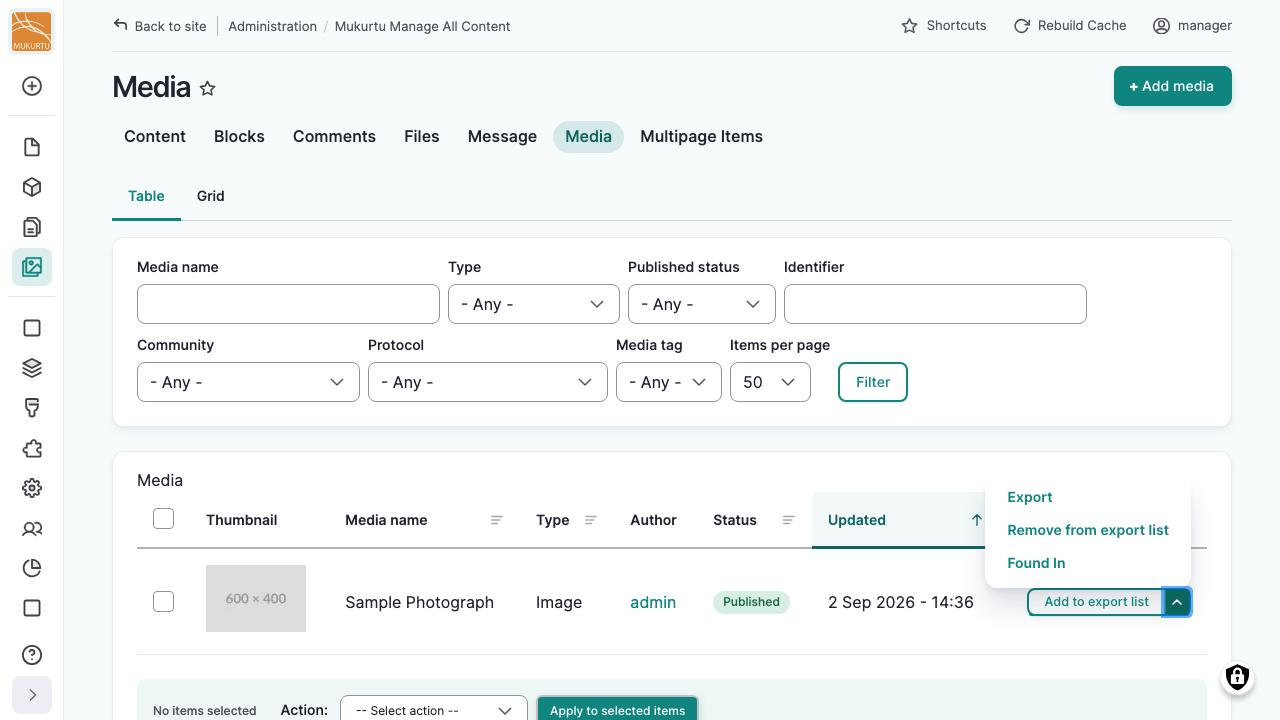
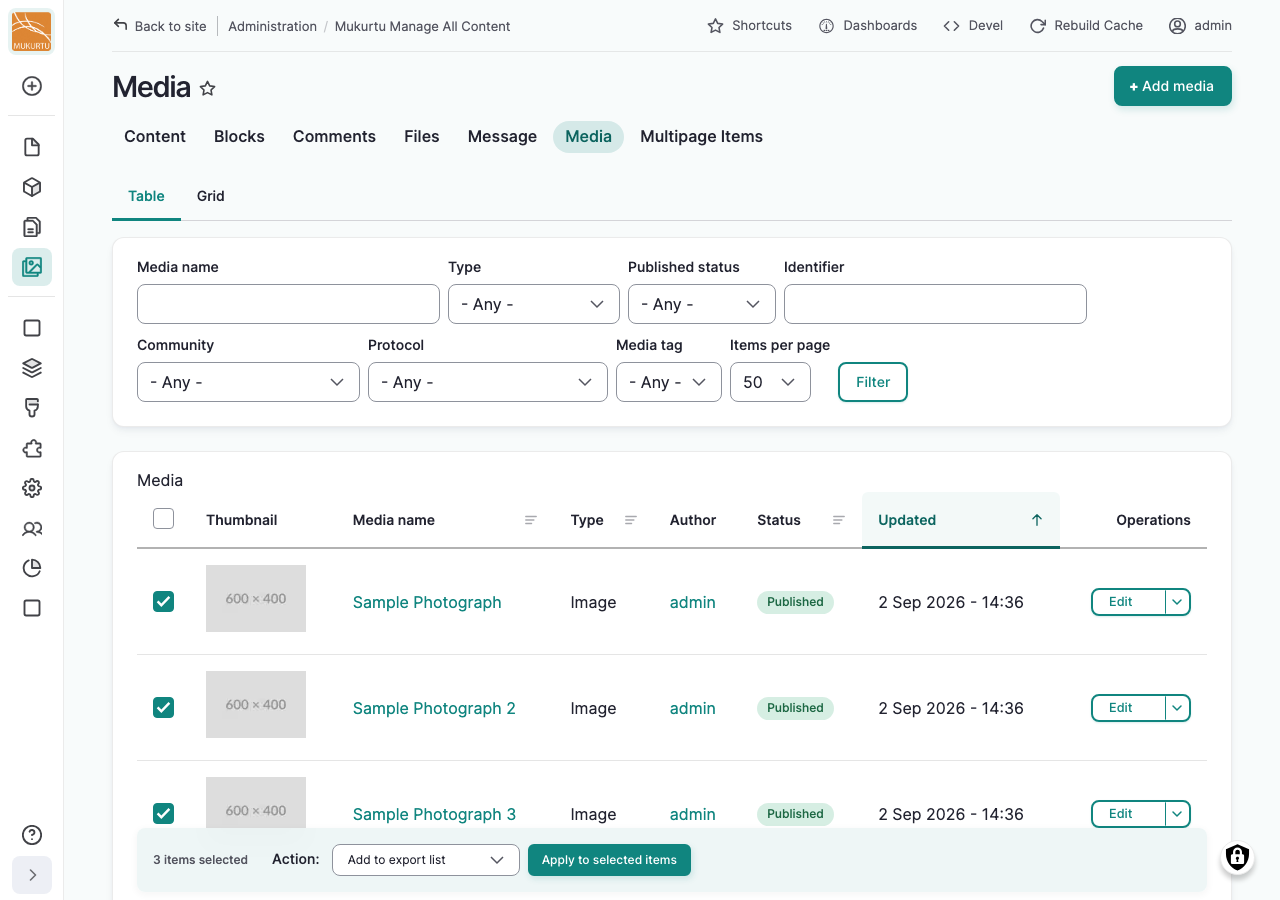
Reorder Exporting Content flows, add missing progress step, review Media/Taxonomies
Move "Run an export from a list" before "Run an ad hoc export" to match
the more common path, fold "Download your export" into both flows as a
final step, and add the previously-missing export progress screen to
each. Give Exporting Media its own "Run an ad hoc export" section
(promoted from a tip) and fix a bulk-action screenshot/caption mismatch.
Fix broken cross-references and italic/bold convention in Exporting
Taxonomies after the Exporting Content restructuring.

diff --git a/docs/roundtrip/ExportingMedia.md b/docs/roundtrip/ExportingMedia.md
@@ -8,39 +8,39 @@ tags:
 !!! roles "User roles"
     Administrator, Mukurtu manager, Roundtrip manager
 
-Media assets, images, audio, video, and other files attached to your content, can be exported on their own, in addition to being included automatically when you export the content they belong to. This article covers both. 
-
-!!! requirement
-    Users must be an Administrator, Mukurtu manager, or Roundtrip manager to access export tools.
+Media assets can be exported on their own, or included when exporting the content they belong to. 
 
 ## Add media to an export list
 
-Media items don't have their own full page with an "Add to Export List" option the way content does. Instead, add media to an export list from the media library.
+Media assets don't have their own full page with an "Add to Export List" option the way content does. Instead, add media to an export list from the media library.
 
 From your **Dashboard**, under **Media**, select **Manage Media**.
 
 ![The Manage Media page listing a media item, with an "Add to export list" button in its Operations column.](../_embeds/exporting-media-manage-media-01.png)
 
 - To add a single item, select "Add to export list" from its actions menu, or, if it's shown directly on the item, select the "Add to export list" toggle.
-- To add multiple items at once, select the items you want, then choose "Add to Export List" from the bulk actions menu.
+- To add multiple items at once, select the items you want, then choose "Add to export list" from the bulk actions menu.
 
-![The Operations menu for a media item expanded, showing Export, Remove from export list, and Found In.](../_embeds/exporting-media-manage-media-02.png)
+![Three media items selected in Manage Media, with "Add to export list" chosen in the bulk Action dropdown.](../_embeds/exporting-media-manage-media-02.png)
 
-Both work the same way as adding content: you'll choose an existing export list, or create a new one. See [Add a single item](UsingExportLists.md#add-a-single-item) for that form.
+Next, choose an existing export list, or create a new one. See [Add a single item](UsingExportLists.md#add-a-single-item) for more information.
 
 ![The Add to Export List form for a media item, with an existing export list selected.](../_embeds/exporting-media-add-to-list-01.png)
 
-!!! tip
-    Select "Export" from a media item's actions menu to export just that item right away, without adding it to a list first.
+## Run an ad hoc export
+
+An ad hoc export skips export lists entirely: you export one or more media items right away, without saving them anywhere first.
+
+- Select "Export" from a media item's actions menu.
+- To export multiple items at once, select the items you want, then choose "Export" from the bulk actions menu.
+
+Either way, you'll land on the same export page, progress screen, and results page described in [Run an ad hoc export](ExportingContent.md#run-an-ad-hoc-export).
 
 ## Media included with content
 
-When you export content whose *Media* setting (see [Configuration](ExportSettings.md#configuration)) is set to include the referenced media, that media is exported automatically along with it. It isn't folded into the content's own row: each media type exports to its own file (for example, `Media - Image.csv`), using that type's own field mapping. You don't need to separately add that media to your export list for this to happen.
+When you export content whose **Media** setting (see [Configuration](ExportSettings.md#configuration)) is set to include the referenced media, that media is exported automatically along with it. It isn't folded into the content's own row: each media type exports to its own file (for example, `Media - Image.csv`), using that type's own field mapping. You don't need to separately add that media to your export list for this to happen.
 
 ## Media asset packaging
 
-Whether the actual file is bundled with the export, or just an identifier, is controlled by *Media asset packaging* in the export setting you use (see [Configuration](ExportSettings.md#configuration)). This only matters for media types that store a local file: Image, Audio, Video, and Document. Remote Video, SoundCloud, and External Embed store a URL or embed code instead of a file, so this setting has no effect on them.
+Whether the actual file is bundled with the export, or just an identifier, is controlled by **Media asset packaging** in the export setting you use (see [Configuration](ExportSettings.md#configuration)). This only matters for media types that store a local file: Image, Audio, Video, and Document. Remote Video, SoundCloud, and External Embed store a URL or embed code instead of a file, so this setting has no effect on them.
 
-## Supported media types
-
-Mukurtu can export all of its media types: Image, Audio, Video, Document, Remote Video, SoundCloud, and External Embed. Each has its own field mapping table in [Export Settings](ExportSettings.md#field-mappings).

diff --git a/docs/roundtrip/ExportingContent.md b/docs/roundtrip/ExportingContent.md
@@ -8,22 +8,10 @@ tags:
 !!! roles "User roles"
     Administrator, Mukurtu manager, Roundtrip manager
 
-There are two ways to export content. An export list lets you gather items over time into a named, reusable, and shareable group before exporting them — see [Using Export Lists](UsingExportLists.md) for how to build and manage one. An ad hoc export skips that step and exports one or more items right away. Either way, the export itself uses an export setting that controls exactly which fields are included.
+There are two ways to export content. 
 
-!!! requirement
-    Users must be an Administrator, Mukurtu manager, or Roundtrip manager to access export tools. See [Manage User from a Site-wide role](../users/manage-user-accounts-site-wide.md) for more information.
-
-## Run an ad hoc export
-
-An ad hoc export skips export lists entirely: you export one or more items right away, without saving them anywhere first. Use this when you just need a one-off export and don't need to reuse or share the selection later.
-
-- From a single content item, select "Export" instead of "Add to Export List".
-- While browsing or searching content, select the items you want, then choose "Export" from the bulk actions menu instead of "Add to Export List".
-
-Either way, you'll land on the same export page described below, except instead of an *Export list* dropdown you'll see a summary of the items you selected.
-
-!!! tip
-    Select "Clear Selection" on the export page to start over with a different ad hoc selection.
+1. An export list lets you gather items over time into a named, reusable, and shareable group before exporting them.
+2. An ad hoc export skips that step and exports one or more items right away. 
 
 ## Run an export from a list
 
@@ -38,10 +26,30 @@ Either way, you'll land on the same export page. From here:
 2. If your list or ad hoc selection includes a collection, word list, original record, community record, or multipage item, you may see additional options here for how much connected content to include. See [Exporting complex content](UsingExportLists.md#exporting-complex-content) for what these options do.
 3. Select "Start Export".
 
-![The export page with a list selected under Export list, a saved CSV export setting selected under Export Settings, and the Start Export button.](../_embeds/exporting-content-run-export-01.png)
+    ![The export page with a list selected under Export list, a saved CSV export setting selected under Export Settings, and the Start Export button.](../_embeds/exporting-content-run-export-01.png)
 
-## Download your export
+4. Wait for the export to finish.
 
-Once the export finishes, the Export Results page lists how many items of each type were exported and provides a "Download Export" link. Select "Back to Settings" to run another export with the same list, or "New Export" to start over with a different one.
+    ![The Exporting progress screen with a progress bar and "Initializing export" status.](../_embeds/exporting-content-progress-01.png)
+
+5. The Export Results page lists how many items of each type were exported. Select "Download Export" to download the file. Select "Back to Settings" to run another export with the same list, or "New Export" to start over with a different one.
+
+![The Export Results page showing 2 content items exported and a Download Export link.](../_embeds/exporting-content-results-01.png)
+
+## Run an ad hoc export
+
+An ad hoc export skips export lists entirely: you export one or more items right away, without saving them anywhere first. Use this when you just need a one-off export and don't need to reuse or share the selection later.
+
+- From a single content item, select "Export" instead of "Add to Export List".
+- While browsing or searching content, select the items you want, then choose "Export" from the bulk actions menu instead of "Add to Export List".
+
+Either way, you'll land on the same export page described above, except instead of an *Export list* dropdown you'll see a summary of the items you selected.
+
+!!! tip
+    Select "Clear Selection" on the export page to start over with a different ad hoc selection.
+
+Select "Start Export", then wait for the export to finish. The Export Results page lists how many items of each type were exported. Select "Download Export" to download the file. Select "Back to Settings" to run another export, or "New Export" to start over with a different selection.
+
+![The Exporting progress screen with a progress bar and "Initializing export" status.](../_embeds/exporting-content-progress-01.png)
 
 ![The Export Results page showing 2 content items exported and a Download Export link.](../_embeds/exporting-content-results-01.png)

diff --git a/docs/roundtrip/ExportingTaxonomies.md b/docs/roundtrip/ExportingTaxonomies.md
@@ -14,17 +14,17 @@ Taxonomy terms, the vocabularies used for categories, languages, media tags, and
 
 From your **Dashboard**, under **Roundtrip**, select **Export Taxonomy**.
 
-1. Under *Taxonomies*, select the checkbox next to each vocabulary you want to export. You can select more than one.
+1. Under **Taxonomies**, select the checkbox next to each vocabulary you want to export. You can select more than one.
 2. Select "Configure Export".
 
 ![The Export Taxonomy page, listing every vocabulary as a checkbox, with Category selected.](../_embeds/exporting-taxonomies-start-01.png)
 
 ## Run the export
 
-You'll land on the same export page used for [ad hoc](ExportingContent.md#run-an-ad-hoc-export) content and media exports, showing a summary of your selected vocabularies instead of an export list. Choose a saved CSV export setting and select "Start Export". Once the export finishes, you'll reach the same Export Results page described in [Download your export](ExportingContent.md#download-your-export).
+You'll land on the same export page used for [ad hoc](ExportingContent.md#run-an-ad-hoc-export) content and media exports, showing a summary of the selected terms instead of an export list. Choose a saved CSV export setting and select "Start Export", then wait for the export to finish. You'll reach the same Export Results page described in [Run an ad hoc export](ExportingContent.md#run-an-ad-hoc-export).
 
 ![The export page showing "Exporting 1 selected item" for the selected vocabulary, with a saved CSV export setting selected and the Start Export button.](../_embeds/exporting-taxonomies-adhoc-01.png)
 
 ## Field mappings for taxonomy terms
 
-Taxonomy terms need a saved CSV export setting to run an export, the same as content and media. Each vocabulary has its own field mapping table under *Field mappings* in that setting. See [Export Settings](ExportSettings.md#field-mappings) for details.
+Taxonomy terms need a saved CSV export setting to run an export, the same as content and media. Each vocabulary has its own field mapping table under **Field mappings** in that setting. See [Export Settings](ExportSettings.md#field-mappings) for details.
